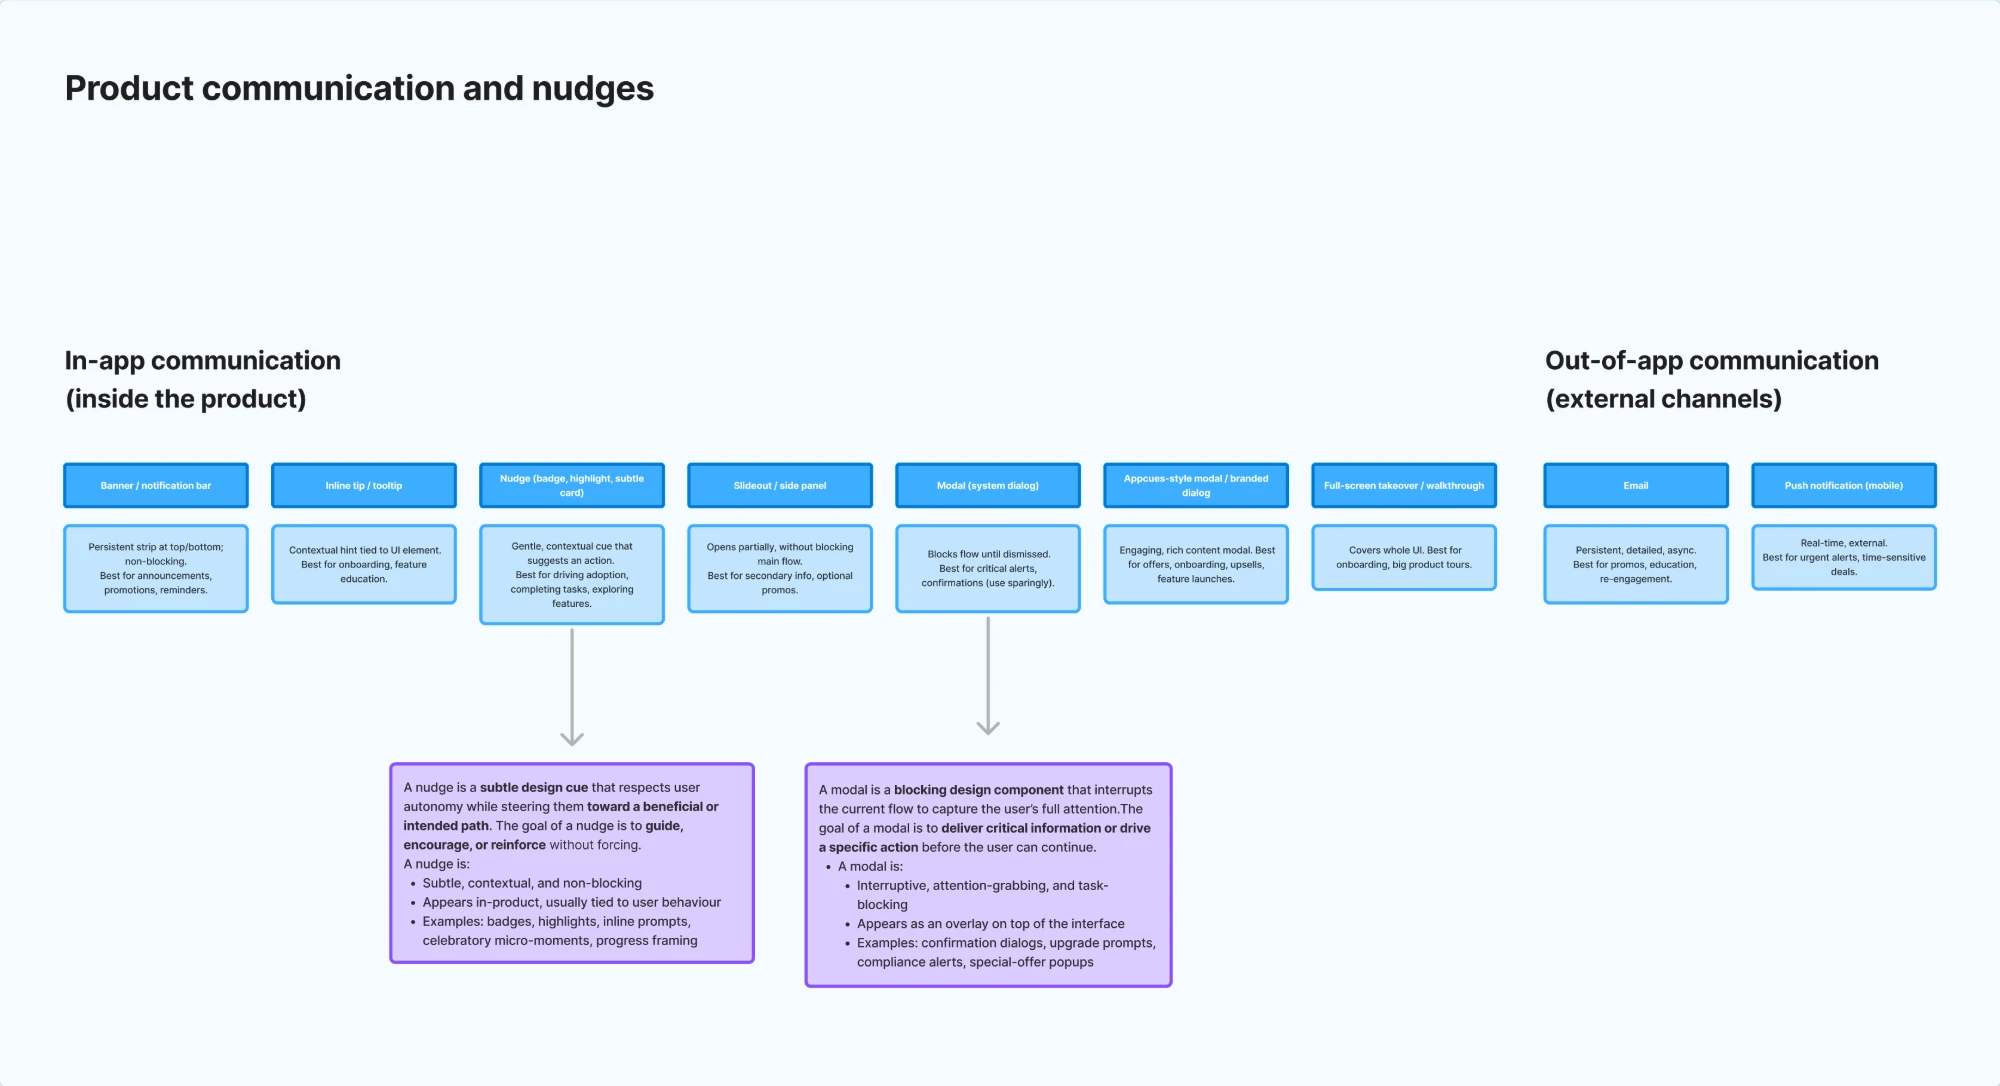
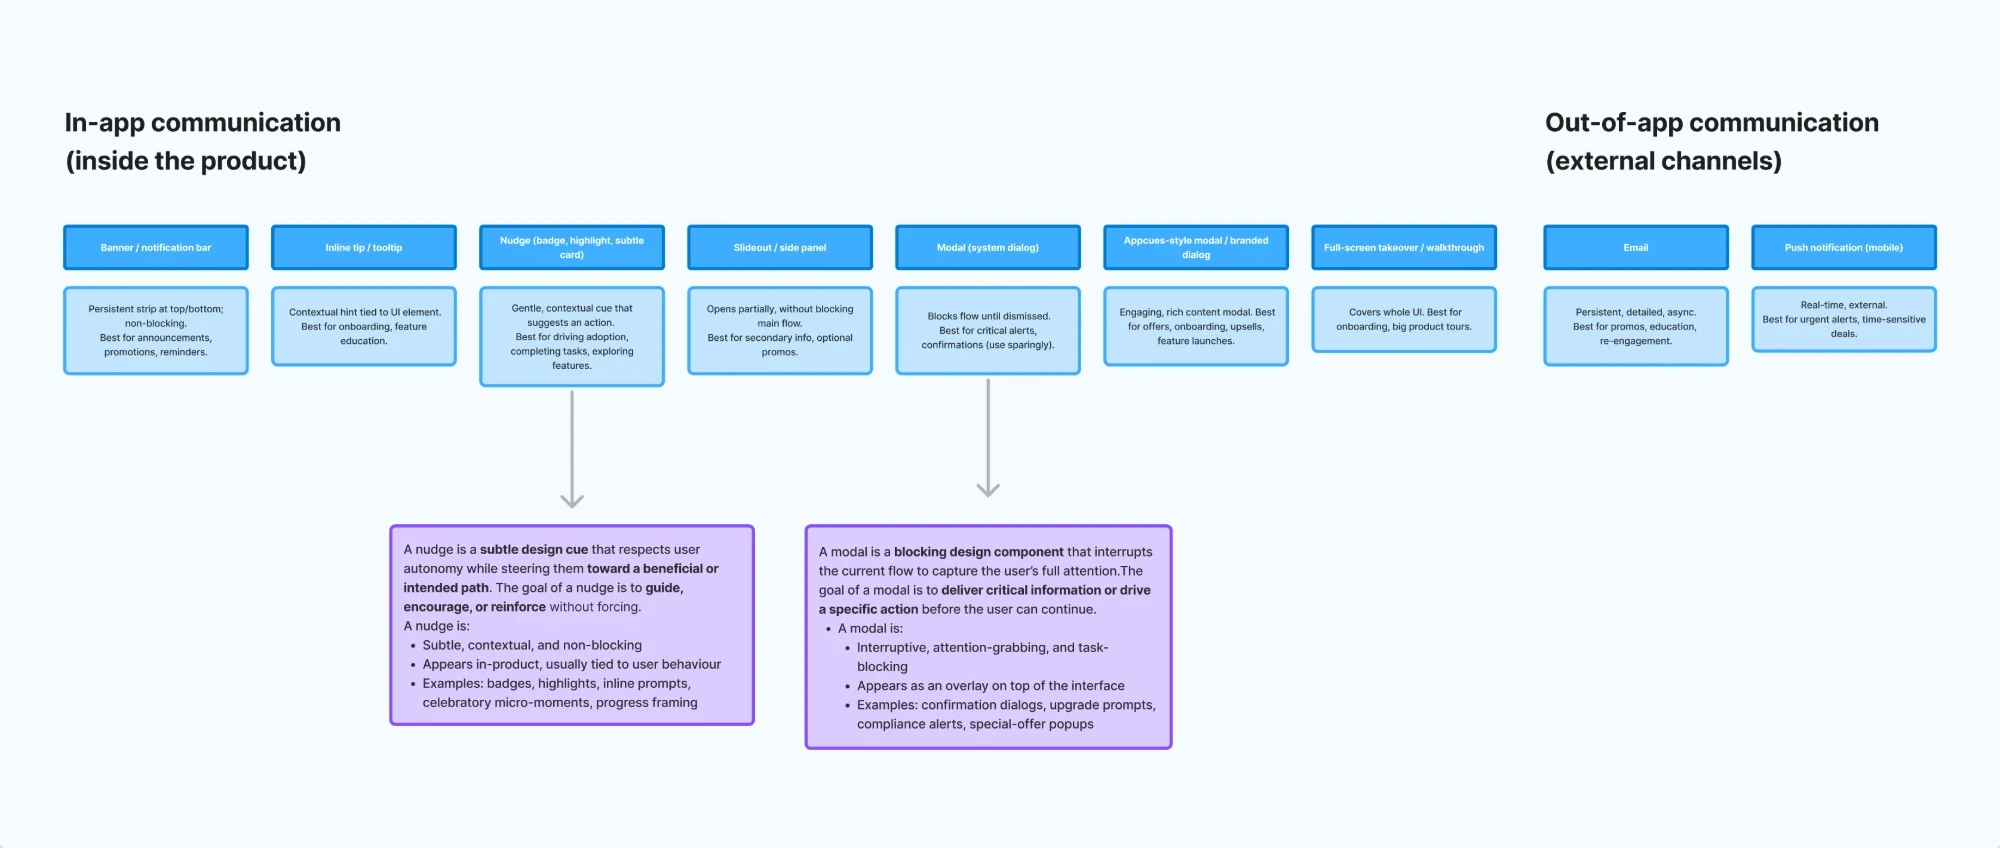
Draft: diagram titles as caps labels above, both full width

diff --git a/case-studies/monthly-to-annual.html b/case-studies/monthly-to-annual.html
@@ -367,9 +367,6 @@
       background: #fff;
     }
 
-    /* Same height as the lifecycle diagram above (2000x723), so both keep one text scale: 723 / 1086 */
-    .media__img--match { width: 66.57%; }
-
     /* Strategy pillars */
     .pillars {
       margin-top: 32px;
@@ -595,12 +592,14 @@
       </div>
 
       <figure class="media wide">
+        <p class="stack__label">Customer's lifecycle</p>
         <img class="media__img media__img--bordered" src="/case-studies/images/m2a/customer-lifecycle.webp" alt="Customer's lifecycle over the first twelve months: activation, adoption, consistent non-blocking nudges, a 3-month celebration campaign, the renewal email used to trigger the offer, and a 6-month celebration campaign with a modal and an email follow-up">
         <figcaption>Defining a notification cadence: how many reminders, on which pages, through which channels (in-app, email, possibly mobile), and with what escalating or de-escalating prominence.</figcaption>
       </figure>
 
       <figure class="media wide">
-        <img class="media__img media__img--bordered media__img--match" src="/case-studies/images/m2a/product-communication-nudges.webp" alt="Types of product communication: in-app banners, tooltips, nudges, side panels, modals and walkthroughs, and out-of-app email and push notifications, with the difference between a nudge and a modal">
+        <p class="stack__label">Product communication and nudges</p>
+        <img class="media__img media__img--bordered" src="/case-studies/images/m2a/product-communication-nudges.webp" alt="Types of product communication: in-app banners, tooltips, nudges, side panels, modals and walkthroughs, and out-of-app email and push notifications, with the difference between a nudge and a modal">
         <figcaption>The ways the product can talk to customers, in-app and outside it, and the difference between a nudge and a modal.</figcaption>
       </figure>
 
